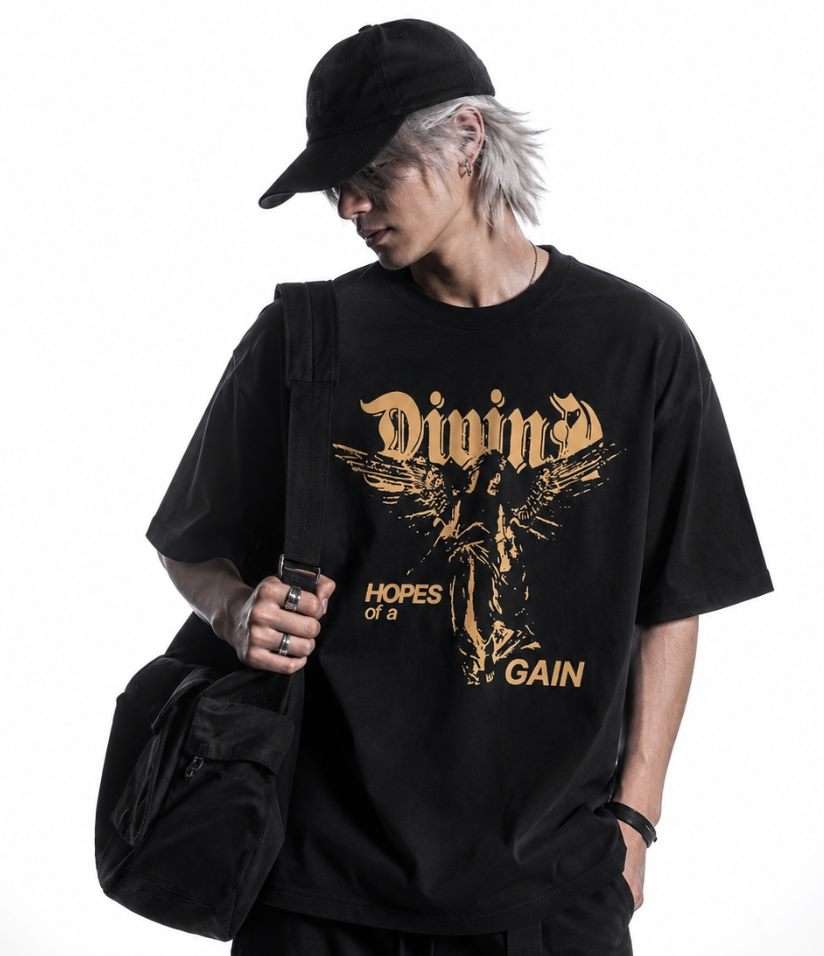
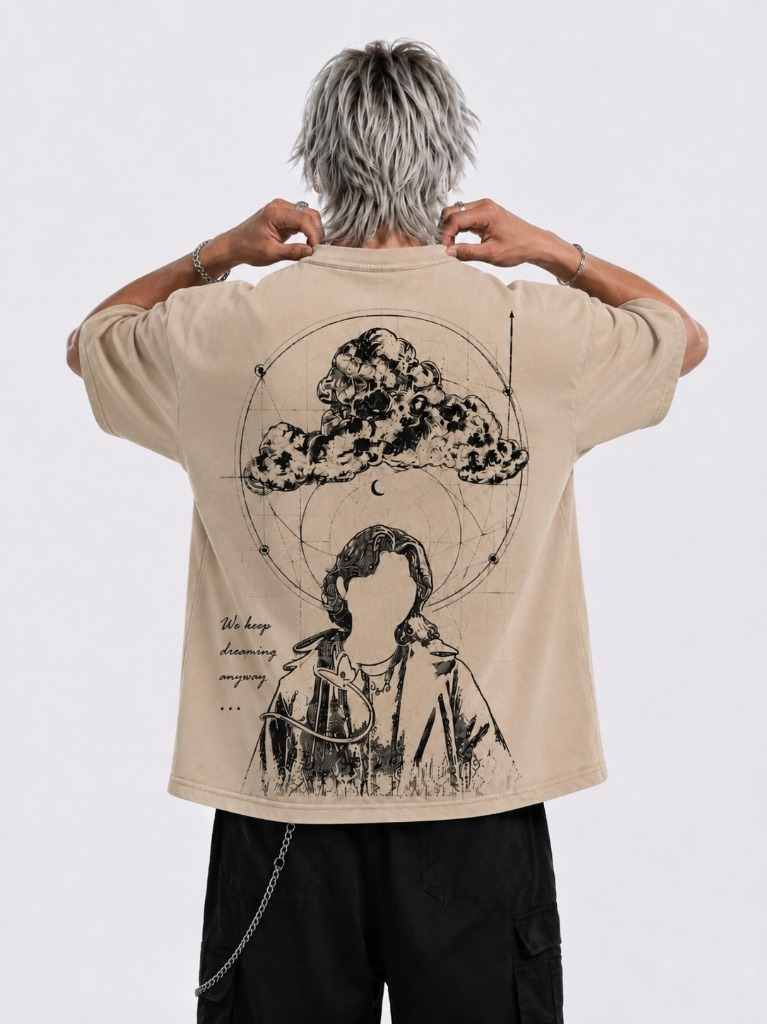
Update Drop Shoulder collection cover image and preserve backup of old image

diff --git a/src/components/site/Hero.tsx b/src/components/site/Hero.tsx
@@ -39,7 +39,7 @@ export function TickerRule() {
 export function CollectionsStrip() {
   const activeImages = useRef<Record<string, string>>({
     "t-shirts": "/campaign/regular_tees_user.jpg",
-    "drop-shoulder": "/campaign/drop_shoulder_user.jpg",
+    "drop-shoulder": "/assets/collections/drop_shoulder_cover.webp",
     "acid-wash": "/assets/collections/acid_wash_cover.webp",
   });
 

diff --git a/src/data/site.ts b/src/data/site.ts
@@ -110,7 +110,7 @@ export const collections: Collection[] = [
     slug: "drop-shoulder",
     name: "Drop Shoulder",
     blurb: "Oversized cuts, heavyweight cotton.",
-    image: `${CDN}/v1772883554/berserkdropf_bed9qx.webp`,
+    image: "/assets/collections/drop_shoulder_cover.webp",
     match: (p) => p.subcategory === "drop-shoulder",
   },
   {
